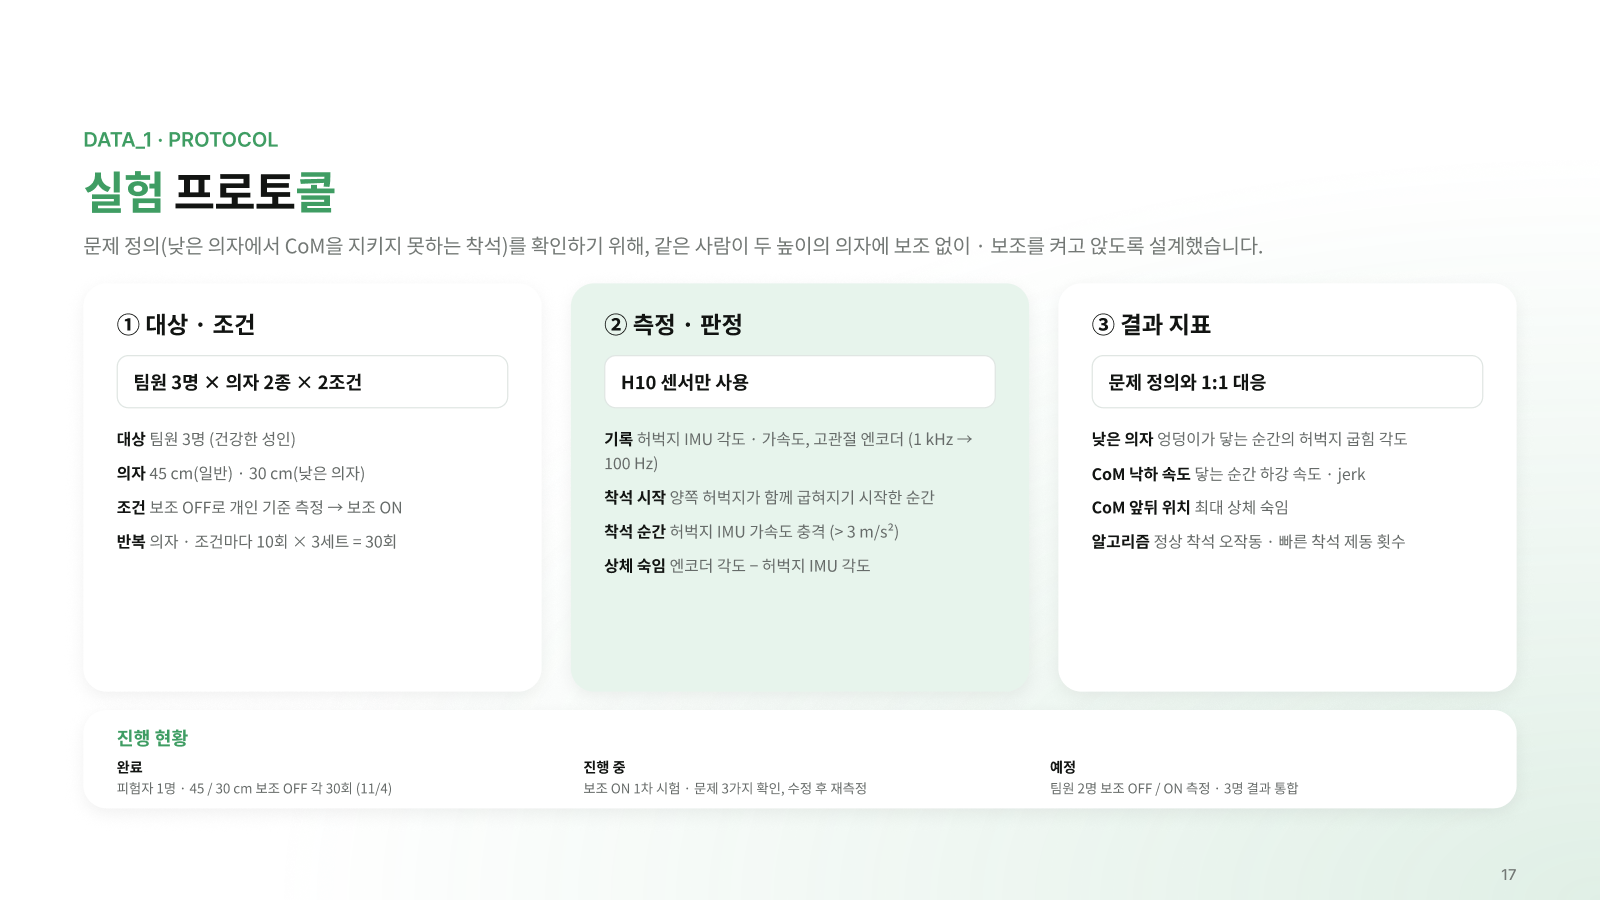
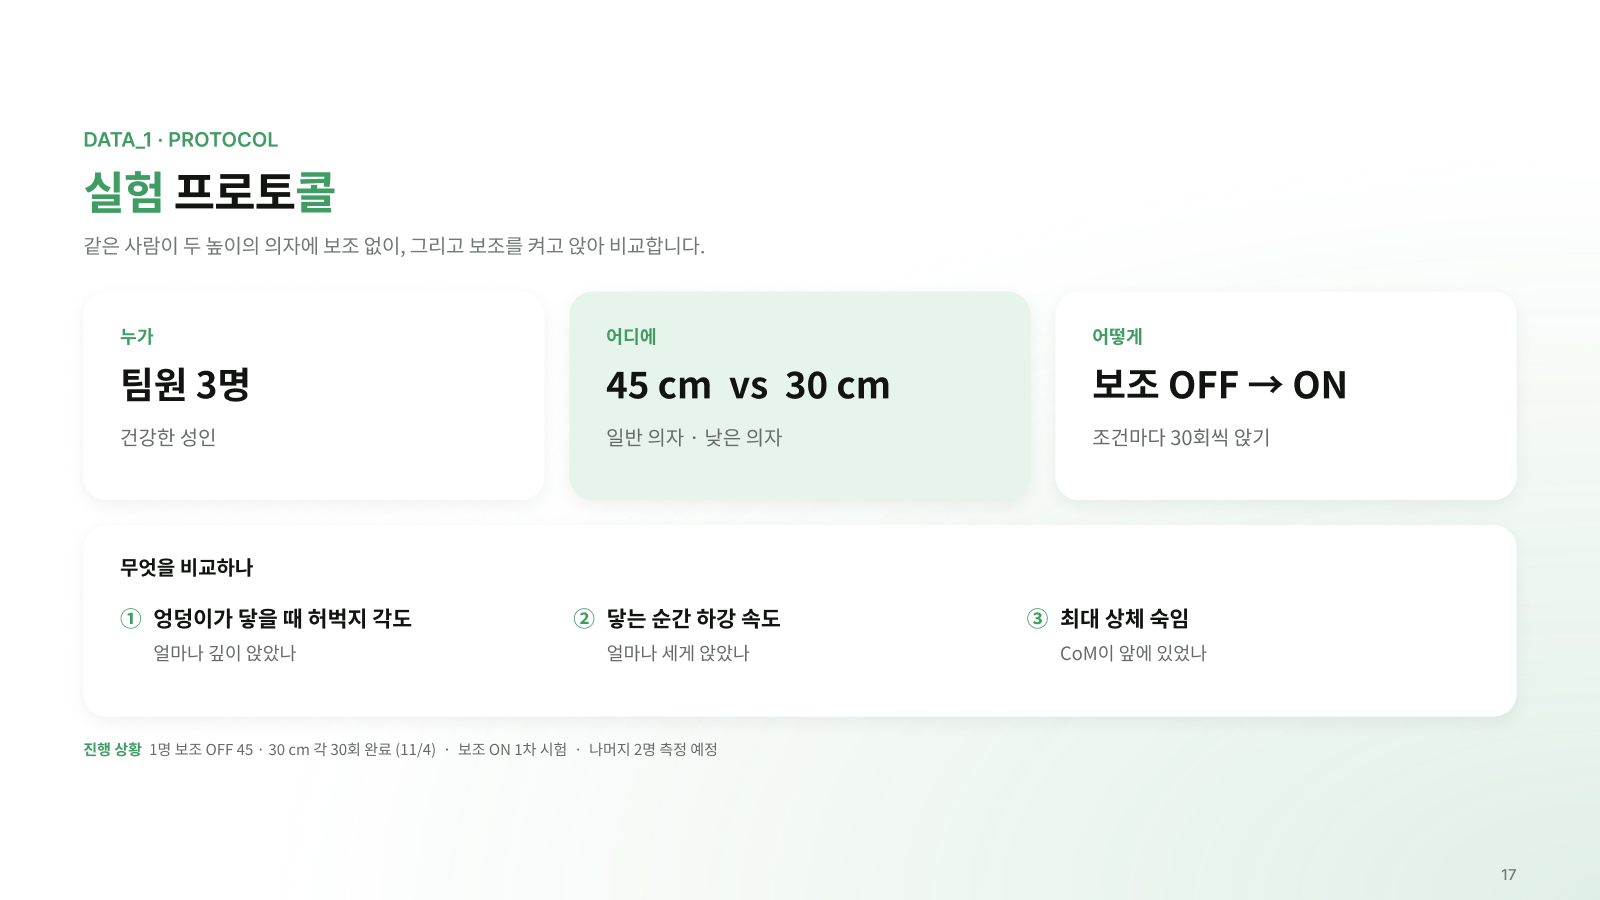
Slides: simplify protocol slide

diff --git a/presentation/발표_흐름.md b/presentation/발표_흐름.md
@@ -25,7 +25,7 @@ Figma Slides: https://www.figma.com/slides/4tZDoTD6FXxpx83Z0kraKR
 | 14 | SOLUTION_2 | 그래서 ②, 카메라로 CoM을 재서 확인합니다 (계획) | 5단계 흐름 + CoM 계산 그림(관절 → 분절 중심 → 가중 평균 → CoM–발목 거리). 코드: `video_com.py` |
 | 15 | SOLUTION · Core Idea | Low-Chair Adaptive Braking | 개인 기준 + 적응형 하강 제동 + 낮은 의자 감지 |
 | 16 | 간지 PART 03 | 데이터 분석 | 실험 프로토콜 · H10 로그와 전처리 · 의자 높이별 비교 · 개인 기준 패턴 |
-| 17 | DATA_1 · PROTOCOL | 실험 프로토콜 | 45·30 cm 각 30회, 엔코더·IMU, 결과 지표 |
+| 17 | DATA_1 · PROTOCOL | 실험 프로토콜 | 누가(팀원 3명) · 어디에(45 vs 30 cm) · 어떻게(보조 OFF → ON, 30회씩) + 비교 지표 3개(착석 각도·닿는 순간 속도·상체 숙임) + 진행 상황 한 줄 |
 | 18 | DATA_2 · H10 LOG | H10 로그 데이터 | 앱 CSV → 100 Hz → 앉기 검출 |
 | 19 | DATA_3 · PREPROCESSING | 전처리에서 마주친 세 가지 문제 | 실측은 시뮬레이션과 달랐음 → 세 가지 수정 |
 | 20 | DATA_4 · CHAIR HEIGHT | 의자 높이별 착석 데이터 | 66° → 76° (+11°), 우리 실측값이 처음 나오는 장 |
